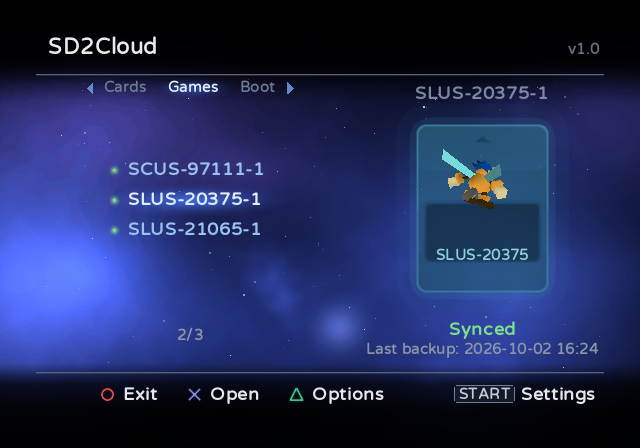
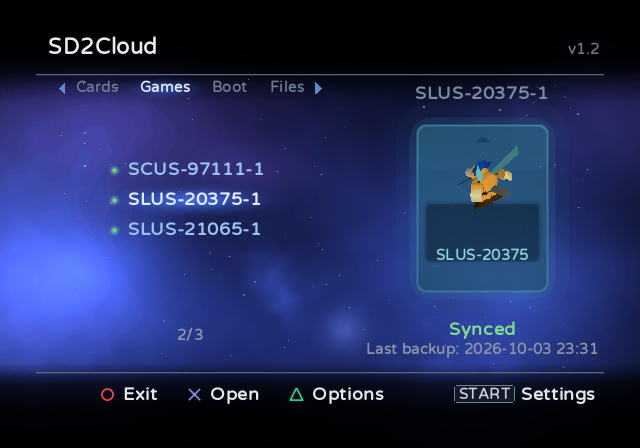
SD2Cloud 1.2
The Files tab (import a .psu into a card, export a save as one), on top of 1.1.

Since the commit that added it, it was tried on a console, with the sd2psx and a real USB drive: the microSD's
folders listed, the USB drivers loaded while the program runs (alone and with the network up, in either order), a
.psu from the drive imported into a card (the card checked on a PC with mymc+, its other saves untouched), a save
exported to the microSD and to the drive and imported again from each, and the program left through its menu
afterwards.

The README shows the new tab: the main screen's picture was taken again and two were added, of a folder of a USB
drive and of a .psu file's page. The notes of the release say what is new.

diff --git a/src/common.h b/src/common.h
@@ -6,7 +6,7 @@
 #include <tamtypes.h>
 
 #define APP_NAME    "SD2Cloud"
-#define APP_VERSION "1.1"
+#define APP_VERSION "1.2"
 
 /* ------------------------------------------------------------ system.c */
 extern char appDir[200];    /* where the program lives: mmce0:/APPS/SD2Cloud/ (host:APPS/SD2Cloud/ on PCSX2) */

diff --git a/docs/release-notes.md b/docs/release-notes.md
@@ -1,10 +1,10 @@
-# SD2Cloud v1.1
+# SD2Cloud v1.2
 
 **Manage and back up your sd2psx memory cards, right on your PS2.**
 
-### What's new in 1.1
-- Backup format: in the settings (or `format` in `sd2cloud.ini`), choose whether each card goes to Drive as the sd2psx's own `.mcd` or as a `.ps2`, the format PCSX2 uses: take the `.ps2` out of the backup's zip and put it in PCSX2's memory card folder. Backups in either format can be restored, whatever is set.
-- From 1.0.1: starting a sync from the saved data screen of a memory card with many saves no longer leaves the network without an address and freezes SD2Cloud.
+### What's new in 1.2
+- Files: a new tab on the main screen browses the folders of the microSD and of a USB drive (FAT32 or exFAT). X on a `.psu` file opens the saved data it holds, to import it into any card; TRIANGLE exports an item of a card, as a `.psu`, into the folder shown. A file is checked whole before the card is changed, and what is written is read back and compared. No Google account or network is needed for this.
+- From 1.1: the backup format setting, `.mcd` (the sd2psx's own) or `.ps2` (the format PCSX2 uses).
 
 To update, use Settings > Check for updates, or copy the new files over the old ones.
 
@@ -21,6 +21,7 @@ SD2Cloud runs on the PS2 itself and works with the memory cards on the microSD o
 - Shows the saved data of each card the way the PS2 browser does, with animated 3D icons.
 - Copies, moves and deletes saved data between the cards on the microSD (the destination's free space is shown), and uploads a single item to Drive as a .psu file.
 - Organizes the cards in tabs: numbered cards, game (Game ID) cards and boot cards.
+- Imports `.psu` files into any card and exports any item of a card as a `.psu`, from and to the microSD or a USB drive (the Files tab).
 
 ### Also
 - Every operation that uploads, writes or deletes data asks for confirmation; uploads can be cancelled with the Circle button.
@@ -31,10 +32,10 @@ SD2Cloud runs on the PS2 itself and works with the memory cards on the microSD o
 - Interface inspired by the PlayStation BB Navigator, with sound effects.
 - English and Portuguese.
 
-**Installation:** extract `SD2Cloud-v1.1.zip` to the root of the sd2psx microSD and open SD2Cloud from the OPL Apps tab. See README.txt for details.
+**Installation:** extract `SD2Cloud-v1.2.zip` to the root of the sd2psx microSD and open SD2Cloud from the OPL Apps tab. See README.txt for details.
 
 ---
 
 **Gerencie e proteja os cartões de memória do seu sd2psx, direto no PS2.**
-Novidade da 1.1: nas configurações (ou em `format` no `sd2cloud.ini`) dá para escolher se cada cartão vai ao Drive como `.mcd`, o formato do sd2psx, ou como `.ps2`, o formato usado pelo PCSX2. Os dois formatos podem ser restaurados. Inclui a correção da 1.0.1 (travamento ao sincronizar a partir da tela de dados salvos de um cartão com muitos saves).
-Instalação: extraia o `SD2Cloud-v1.1.zip` na raiz do microSD do sd2psx e abra o SD2Cloud pela aba Apps do OPL. Consulte o LEIA-ME.txt para mais detalhes.
+Novidade da 1.2: a aba Arquivos, na tela principal, percorre as pastas do microSD e de um pendrive USB (FAT32 ou exFAT). X em um arquivo `.psu` abre os dados salvos que ele contém, para importar em qualquer cartão; TRIÂNGULO exporta um item de um cartão, como `.psu`, para a pasta exibida. O arquivo é verificado por inteiro antes de o cartão ser alterado, e o que é gravado é lido de volta e comparado. Não precisa de conta do Google nem de rede.
+Instalação: extraia o `SD2Cloud-v1.2.zip` na raiz do microSD do sd2psx e abra o SD2Cloud pela aba Apps do OPL. Consulte o LEIA-ME.txt para mais detalhes.

diff --git a/README.pt-BR.md b/README.pt-BR.md
@@ -3,8 +3,9 @@
 **Gerencie e proteja os cartões de memória do seu sd2psx, direto no PS2.**
 
 > [!WARNING]
-> O SD2Cloud está em estágio inicial e ainda foi pouco testado. Antes de copiar, mover, apagar ou restaurar dados
-> salvos com ele, faça um backup dos seus cartões de memória: copie a pasta `MemoryCards` do microSD para um PC.
+> O SD2Cloud está em estágio inicial e ainda foi pouco testado. Antes de copiar, mover, apagar, importar ou
+> restaurar dados salvos com ele, faça um backup dos seus cartões de memória: copie a pasta `MemoryCards` do
+> microSD para um PC.
 
 O SD2Cloud roda no próprio PS2 e trabalha com os cartões de memória guardados no microSD dos dispositivos da
 família sd2psx com o firmware [sd2psXtd](https://github.com/sd2psXtd/firmware) (sd2psx, PSXMemCard, PSXMemCard
@@ -19,6 +20,10 @@ Gen2, PicoMemcard+/Zero), sem necessidade de um PC.
 <p>
   <img src="docs/screens/save-pt.png" width="49%" alt="Página dos dados salvos de um jogo">
   <img src="docs/screens/upload-pt.png" width="49%" alt="Cartão de memória de um jogo sendo enviado ao Google Drive">
+</p>
+<p>
+  <img src="docs/screens/files-pt.png" width="49%" alt="Aba Arquivos: uma pasta de um pendrive USB com arquivos .psu">
+  <img src="docs/screens/psu-pt.png" width="49%" alt="Um arquivo .psu prestes a ser importado para um cartão de memória">
 </p>
 
 ## Recursos

diff --git a/README.md b/README.md
@@ -3,8 +3,8 @@
 **Manage and back up your sd2psx memory cards, right on your PS2.**
 
 > [!WARNING]
-> SD2Cloud is at an early stage and has not been widely tested yet. Before copying, moving, deleting or restoring
-> saved data with it, back up your memory cards: copy the `MemoryCards` folder of the microSD to a PC.
+> SD2Cloud is at an early stage and has not been widely tested yet. Before copying, moving, deleting, importing or
+> restoring saved data with it, back up your memory cards: copy the `MemoryCards` folder of the microSD to a PC.
 
 SD2Cloud runs on the PS2 itself and works with the memory cards stored on the microSD of sd2psx-family devices
 running the [sd2psXtd](https://github.com/sd2psXtd/firmware) firmware (sd2psx, PSXMemCard, PSXMemCard Gen2,
@@ -19,6 +19,10 @@ PicoMemcard+/Zero). No PC is required.
 <p>
   <img src="docs/screens/save-en.png" width="49%" alt="The page of a game's saved data">
   <img src="docs/screens/upload-en.png" width="49%" alt="A game's memory card being uploaded to Google Drive">
+</p>
+<p>
+  <img src="docs/screens/files-en.png" width="49%" alt="The Files tab: a folder of a USB drive with .psu files">
+  <img src="docs/screens/psu-en.png" width="49%" alt="A .psu file about to be imported into a memory card">
 </p>
 
 ## Features
